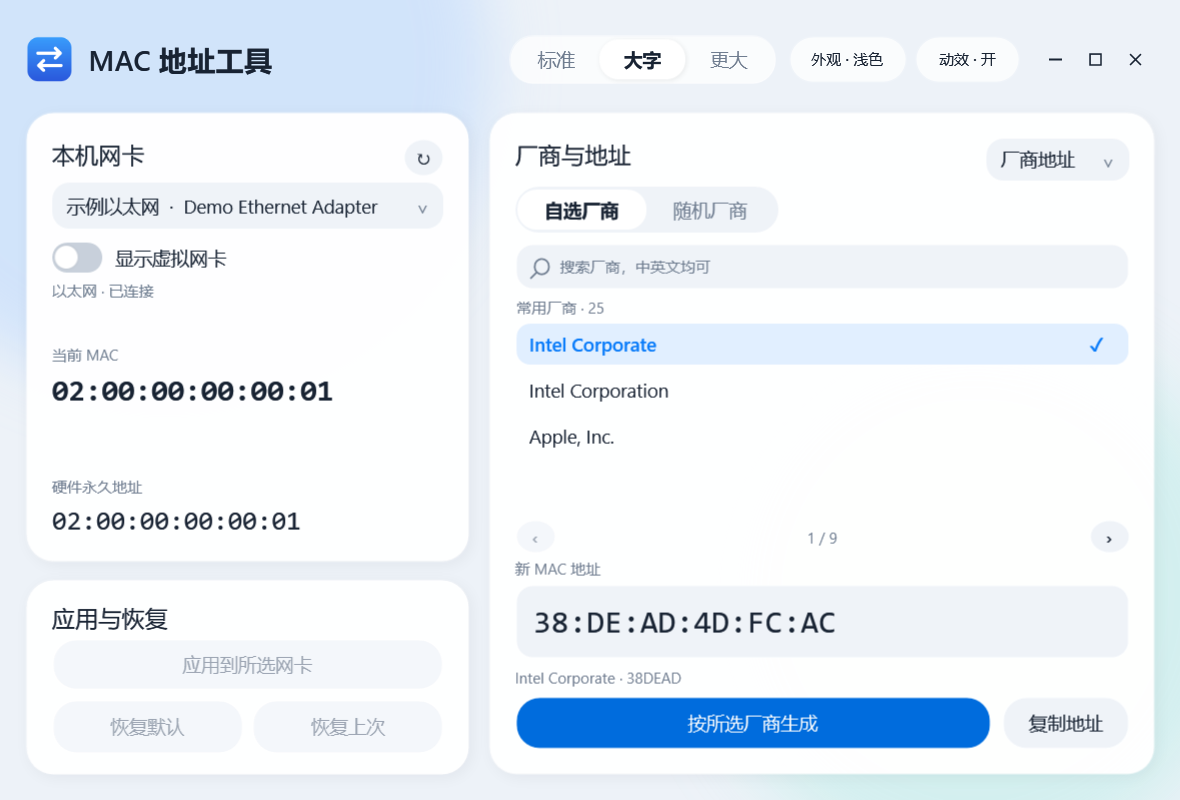
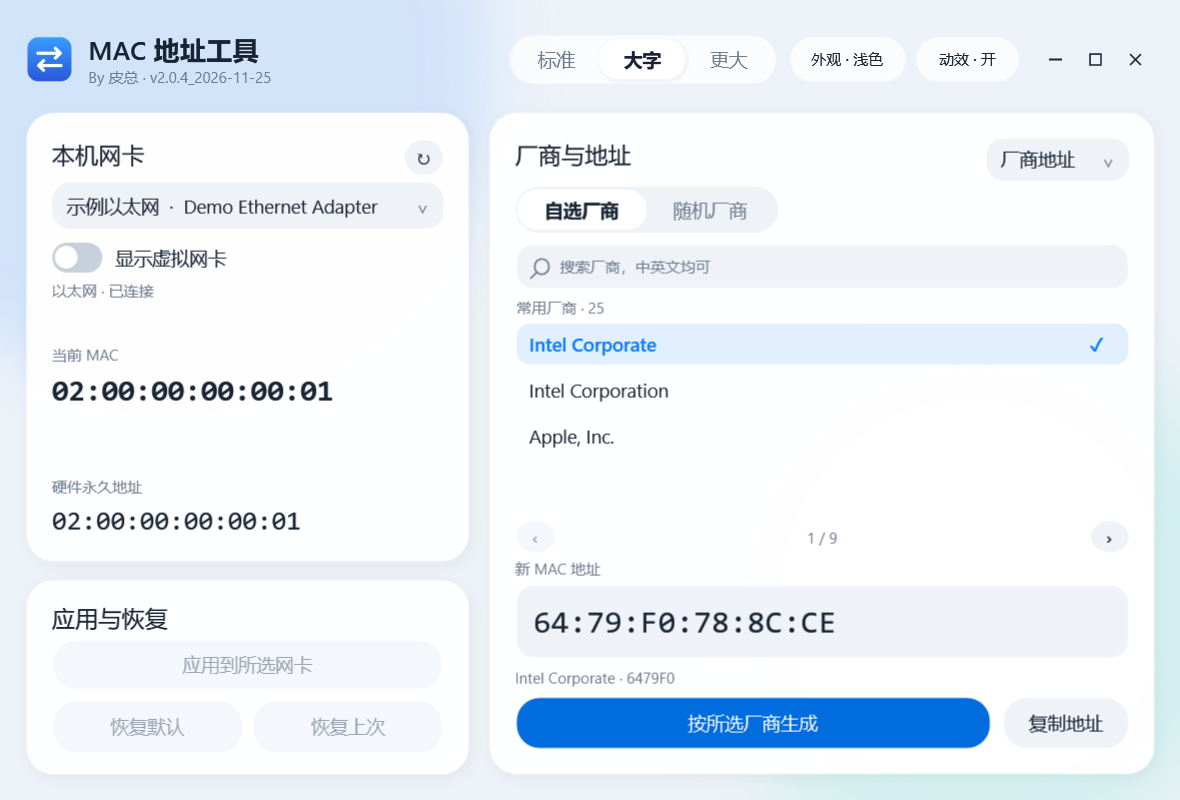
Display author and dated release version in the app header

diff --git a/src/MainWindow.xaml b/src/MainWindow.xaml
@@ -85,7 +85,10 @@
     <Grid x:Name="Header" Background="Transparent"><Grid.ColumnDefinitions><ColumnDefinition/><ColumnDefinition Width="Auto"/></Grid.ColumnDefinitions>
      <StackPanel Orientation="Horizontal" VerticalAlignment="Center">
       <Image Source="{Binding Icon,RelativeSource={RelativeSource AncestorType=Window}}" Width="46" Height="46" Margin="0,0,14,0" RenderOptions.BitmapScalingMode="HighQuality"/>
-      <TextBlock Text="MAC 地址工具" FontSize="27" FontWeight="SemiBold" VerticalAlignment="Center"/>
+      <StackPanel VerticalAlignment="Center">
+       <TextBlock Text="MAC 地址工具" FontSize="25" FontWeight="SemiBold"/>
+       <TextBlock x:Name="ReleaseCredit" Style="{StaticResource Small}"/>
+      </StackPanel>
      </StackPanel>
      <StackPanel Grid.Column="1" Orientation="Horizontal" VerticalAlignment="Center">
       <Border Background="{DynamicResource GlassBrush}" CornerRadius="22" BorderBrush="#66FFFFFF" BorderThickness="1" Padding="3" Margin="0,0,12,0"><Grid Width="246" Height="38" x:Name="SizeSegments"><Border x:Name="SizeThumb" Width="82" HorizontalAlignment="Left" Background="{DynamicResource SelectionBrush}" CornerRadius="18"><Border.RenderTransform><TranslateTransform X="82"/></Border.RenderTransform><Border.Effect><DropShadowEffect BlurRadius="8" ShadowDepth="2" Opacity="0.09"/></Border.Effect></Border><UniformGrid Columns="3"><RadioButton x:Name="Size0" GroupName="FontSize" Content="标准" Style="{StaticResource Segment}"/><RadioButton x:Name="Size1" GroupName="FontSize" Content="大字" IsChecked="True" Style="{StaticResource Segment}"/><RadioButton x:Name="Size2" GroupName="FontSize" Content="更大" Style="{StaticResource Segment}"/></UniformGrid></Grid></Border>

diff --git a/src/MainWindow.cs b/src/MainWindow.cs
@@ -45,6 +45,10 @@ namespace MacTool {
   public UiController(bool demo){
    this.demo=demo;
    using(var stream=Assembly.GetExecutingAssembly().GetManifestResourceStream("MainWindow.xaml"))Window=(Window)XamlReader.Load(stream);
+   var assembly=Assembly.GetExecutingAssembly();
+   var author=assembly.GetCustomAttribute<AssemblyCompanyAttribute>().Company;
+   var release=assembly.GetCustomAttribute<AssemblyInformationalVersionAttribute>().InformationalVersion;
+   C<TextBlock>("ReleaseCredit").Text=author+" · v"+release;
    using(var iconStream=Assembly.GetExecutingAssembly().GetManifestResourceStream("app.ico")){
     var icon=new IconBitmapDecoder(iconStream,BitmapCreateOptions.PreservePixelFormat,BitmapCacheOption.OnLoad);
     Window.Icon=icon.Frames.OrderByDescending(frame=>frame.PixelWidth).First();

diff --git a/src/App.cs b/src/App.cs
@@ -12,10 +12,11 @@ using System.Windows.Threading;
 
 [assembly:AssemblyTitle("MAC Address Tool")]
 [assembly:AssemblyDescription("Offline Windows MAC utility with a Liquid Glass inspired interface")]
-[assembly:AssemblyCompany("MAC Address Tool contributors")]
+[assembly:AssemblyCompany("By 皮总")]
 [assembly:AssemblyCopyright("Copyright 2026 MAC Address Tool contributors")]
-[assembly:AssemblyVersion("2.0.3.0")]
-[assembly:AssemblyFileVersion("2.0.3.0")]
+[assembly:AssemblyVersion("2.0.4.0")]
+[assembly:AssemblyFileVersion("2.0.4.0")]
+[assembly:AssemblyInformationalVersion("2.0.4_2026-11-25")]
 namespace MacTool {
  public static class App {
   [STAThread] public static int Main(string[] args){

diff --git a/docs/RELEASE_NOTES.md b/docs/RELEASE_NOTES.md
@@ -1,6 +1,8 @@
-# v2.0.3
+# v2.0.4_2026-11-25
 
 窗口左上角、窗口图标和桌面 EXE 现共用同一份蓝色双向箭头图标，切换深浅色时保持一致。
+
+工具名称下方显示署名、版本号和更新日期 `By 皮总 · v2.0.4_2026-11-25`。此版本包含按钮和开关的动画修复。
 
 如果启动时提示缺少 .NET Framework 4.8，请安装微软官方运行时，再打开 `MacAddressTool.exe`。[在线安装](https://dotnet.microsoft.com/zh-cn/download/dotnet-framework/thank-you/net48-web-installer) · [离线安装包](https://dotnet.microsoft.com/zh-cn/download/dotnet-framework/thank-you/net48-offline-installer)
 
